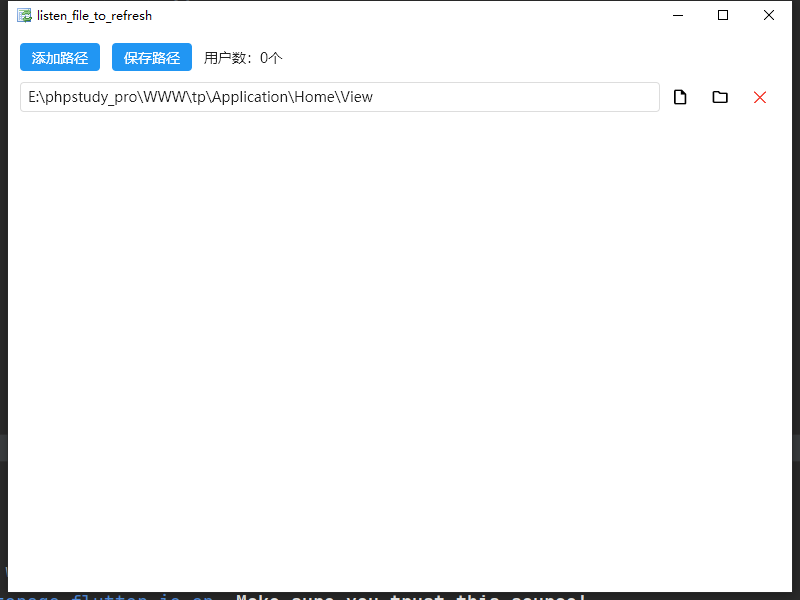
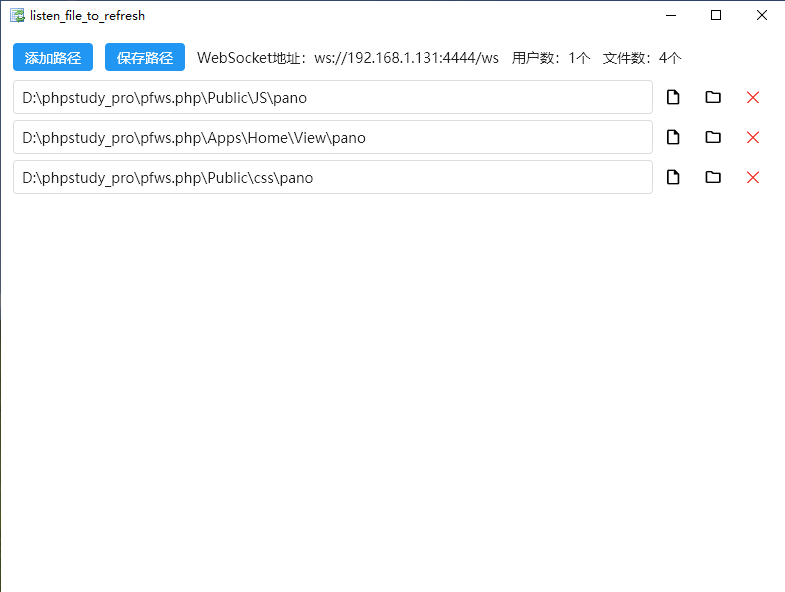
ws地址由localhost替换成本地IP地址, 删除js文件

diff --git a/lib/home.dart b/lib/home.dart
@@ -1,12 +1,15 @@
 import 'dart:async';
 import 'dart:io';
+
 import 'package:file_picker/file_picker.dart';
 import 'package:flutter/cupertino.dart';
-import 'package:shared_preferences/shared_preferences.dart';
-import 'package:shelf_cors_headers/shelf_cors_headers.dart';
 import 'package:flutter/material.dart';
-import 'package:shelf_plus/shelf_plus.dart' as plus;
+import 'package:flutter/services.dart';
+import 'package:intranet_ip/intranet_ip.dart';
+import 'package:shared_preferences/shared_preferences.dart';
 import 'package:shelf/shelf_io.dart' as io;
+import 'package:shelf_cors_headers/shelf_cors_headers.dart';
+import 'package:shelf_plus/shelf_plus.dart' as plus;
 
 class Home extends StatefulWidget {
   const Home({Key? key}) : super(key: key);
@@ -25,6 +28,8 @@ class _HomeState extends State<Home> {
   bool flag = false;
   List<plus.WebSocketSession> users = [];
   int filesLimit = 3000;
+  String ip = '';
+  int port = 4444;
 
   @override
   void initState() {
@@ -66,7 +71,16 @@ class _HomeState extends State<Home> {
       ScaffoldMessenger.of(context).clearSnackBars();
     }
     final messenger = ScaffoldMessenger.of(context);
-    messenger.showSnackBar(SnackBar(content: Text(msg)));
+    messenger.showSnackBar(
+      SnackBar(
+        content: Text(
+          msg,
+          style: const TextStyle(
+            fontFamily: '微软雅黑',
+          ),
+        ),
+      ),
+    );
   }
 
   setCache() async {
@@ -94,8 +108,10 @@ class _HomeState extends State<Home> {
         onMessage: (ws, dynamic data) {},
       ),
     );
-    server = await io.serve(app, 'localhost', 4444);
+    ip = (await intranetIpv4()).address;
+    server = await io.serve(app, ip, port);
     timeSendMsg();
+    setState(() {});
   }
 
   comparisonFile() {
@@ -206,6 +222,13 @@ class _HomeState extends State<Home> {
                     setCache();
                   },
                   child: const Text("保存路径"),
+                ),
+                InkWell(
+                  onTap: () {
+                    Clipboard.setData(ClipboardData(text: 'ws://$ip:$port/ws'));
+                    toast("复制成功: $ip:$port");
+                  },
+                  child: Text('WebSocket地址：ws://$ip:$port/ws'),
                 ),
                 Text('用户数：${users.length}个'),
                 Text('文件数：${files.length}个'),

diff --git a/lib/main.dart b/lib/main.dart
@@ -18,6 +18,7 @@ void main() async {
   windowManager.waitUntilReadyToShow().then((_) async {
     // Hide window title bar
     await windowManager.setSize(const Size(800, 600));
+    await windowManager.setMinimumSize(const Size(800, 600));
     // await windowManager.setTitle(appName);
     await windowManager.center();
     await windowManager.show();

diff --git a/README.md b/README.md
@@ -1,31 +1,18 @@
-# listen_file_to_refresh
+# listen_file_to_refresh 监听文件并刷新
 
-监听文件并刷新
+## 软件缘由: 为了编写原生js或者jQuery页面不会自动刷新.
 
 ![Image text](./doc/1.png)
 
-## 添加文件路径实现监听
+### 添加文件路径实现监听
 
-- WebSocket地址: ws://localhost:4444/ws
+- WebSocket地址: 在软件页面上, 点击自动复制
 - 选择监听路径尽可能范围小
 - 选择监听文件数限制3000
 - 只监听 'html', 'css', 'js'文件
+- Windows 安全警报 要选择 公用网络, 手机设备才能连上ws
 
-### 使用方法
-
-- 使用方法1
-
-```js
-// 项目页面引入js文件(在项目中或者在安装包中listenFileAndRefresh.js)
-try {
-  // var opt = new Viewer();
-  代码区
-} finally {
-  (new ListenFileAndRefresh()).ws();
-}
-```
-
-- 使用方法2
+### 使用方法(在js文件添加以下代码片段, 并替换WebSocket地址)
 
 ```js
 
@@ -47,7 +34,8 @@ try {
     }
 
     function ws() {
-      var ws = new WebSocket('ws://localhost:4444/ws');
+      // Replace websocket address
+      var ws = new WebSocket('替换WebSocket地址');
       // ws.onopen = function (evt) {};
       ws.onmessage = function (evt) {
         console.log(evt.data);
